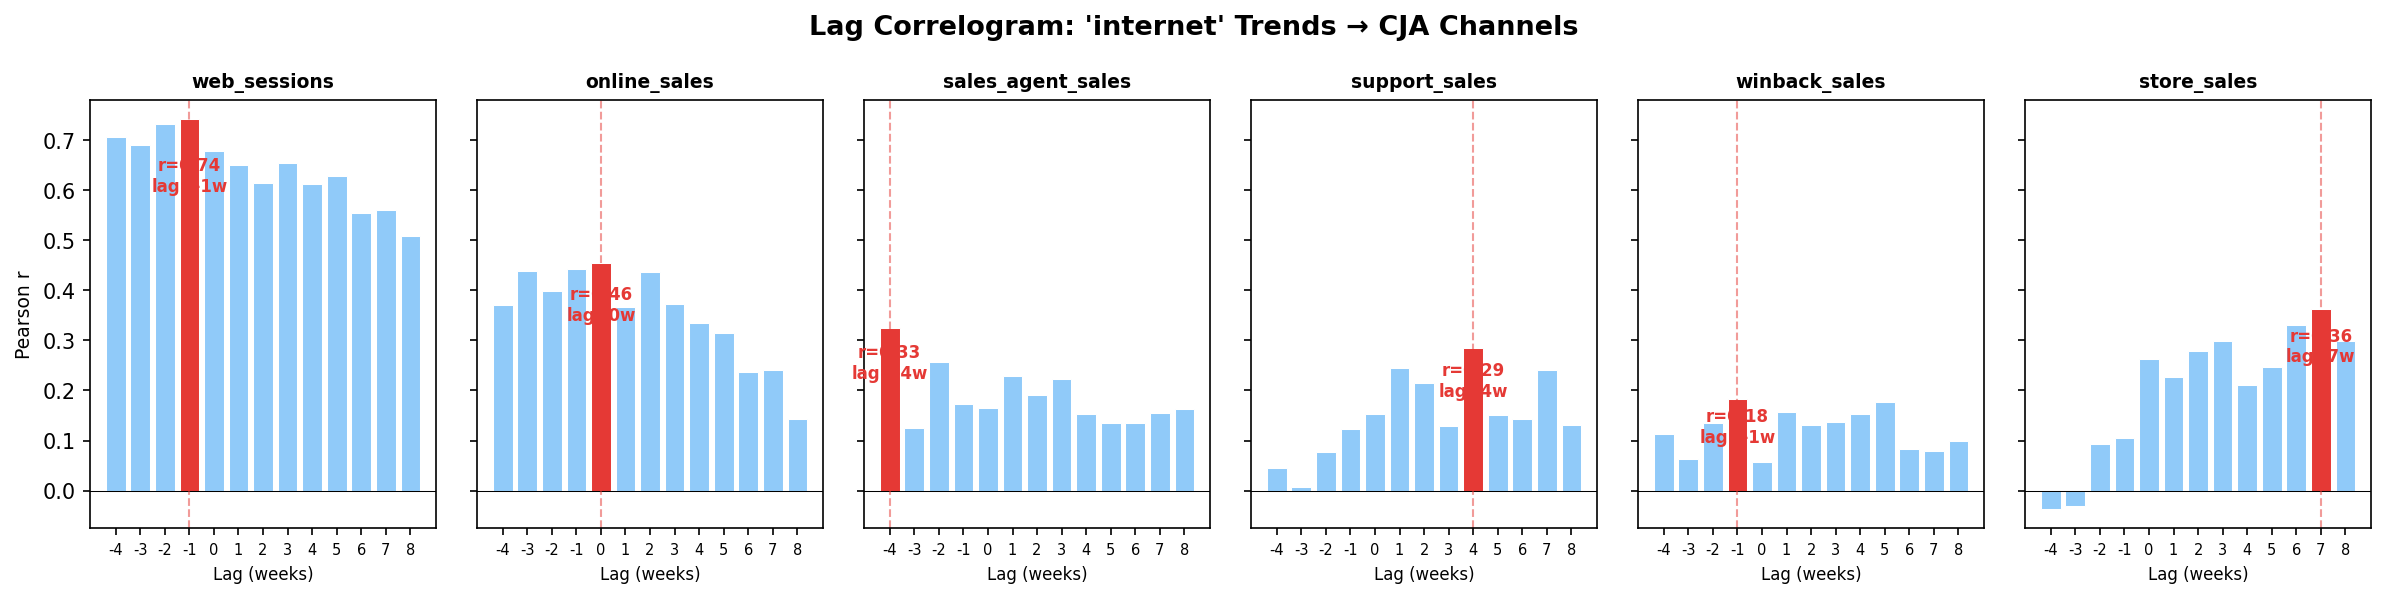
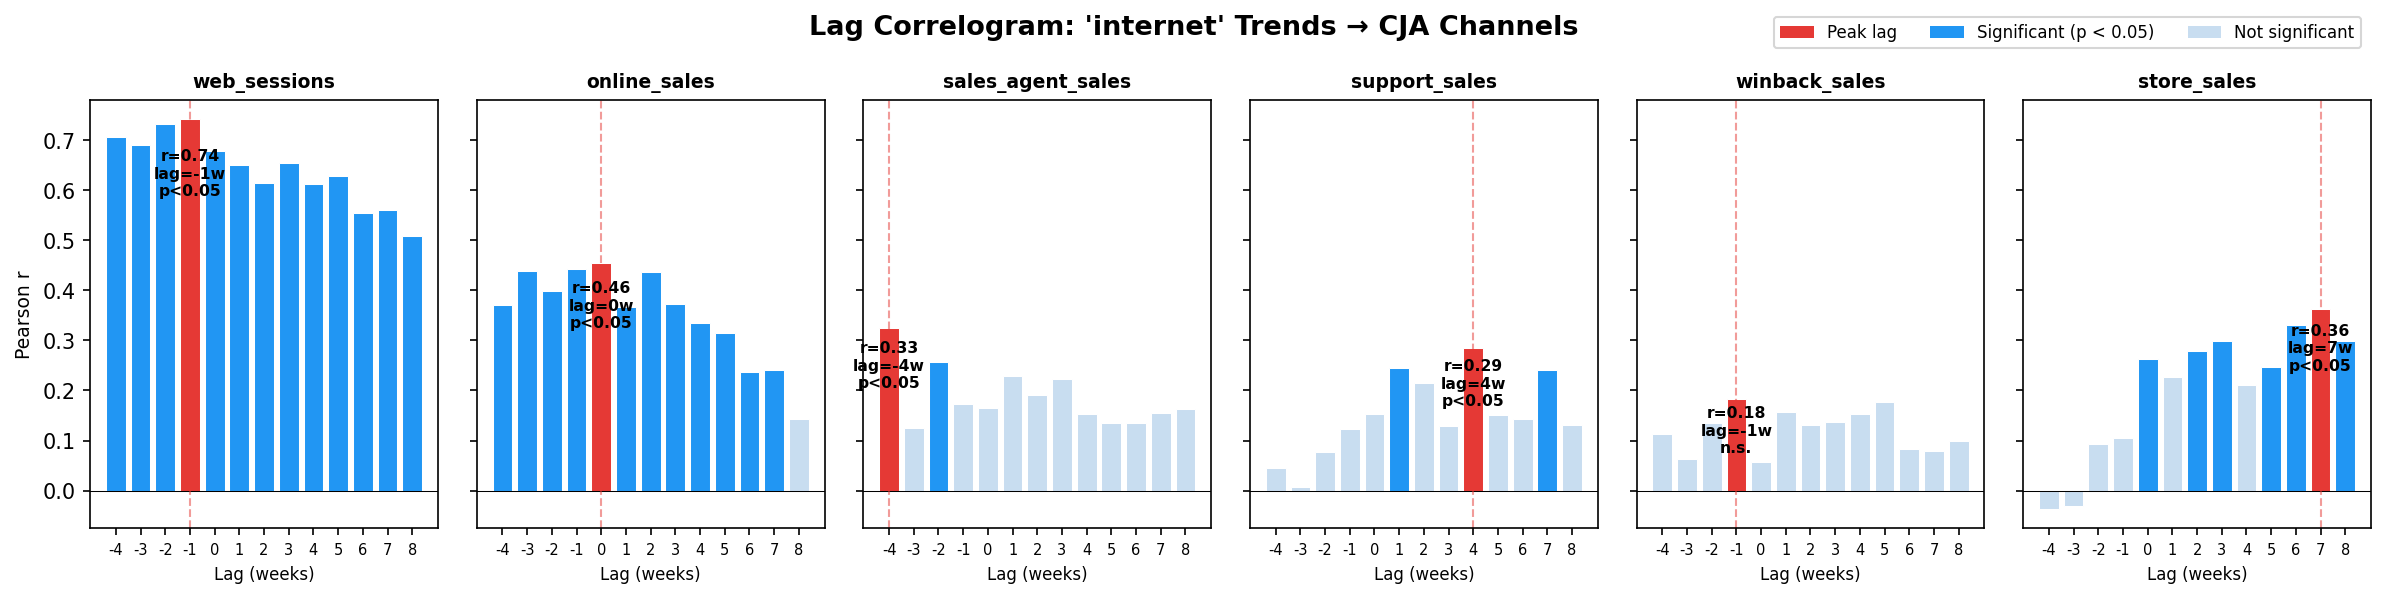
push

diff --git a/_posts/2026-06-21-google-trends-cja-channel-lag.md b/_posts/2026-06-21-google-trends-cja-channel-lag.md
@@ -508,14 +508,16 @@ Reminds me of an A/B tests that I once ran. The traffic / data was very low. But
 
 ### The correlogram: reading the chart
 
-The correlogram plots **r** on the **Y axis** and **lag (weeks)** on the **X axis**. Each bar is one lag value. The red bar is the peak.
+If you scroll further down, you'll see a correlogram that plots **r** on the **Y axis** and **lag (weeks)** on the **X axis**. Each bar is one lag value. The red bar is the peak.
 
-The script gives you one chart per keyword, and from it you read two things. First, how *tall* the peak is. That's the strength (r), and it comes with a p-value telling you whether it's real. This part is a calculated number. Second, how *sharp* the peak is. That's just you looking at the shape to judge whether the lag is pinned to one specific week or smeared across several. This part is a judgment call you make by looking, not a statistic the script calculates for you.
+The script gives you one chart per keyword, and from it you read two things. First, how *tall* the peak is. That's the strength (r), which is what the height of every bar shows. Second, how *sharp* the peak is. That's just you looking at the shape to judge whether the lag is pinned to one specific week or smeared across several. This part is a judgment call you make by looking, not a statistic the script calculates for you.
+
+The p-value (the "can I trust this" number from earlier) is also visible. Furthermore, a solid blue bar is statistically significant (p < 0.05). A faded bar is not. The red peak bar also gets a small label telling you whether it met the p < 0.05 requirement or not (shown as "n.s." for not significant). So the *colour* carries the significance, and the *height* carries the strength. The full p-values for every pairing are also printed in the terminal table when you run the script.
 
 So here's my interpretation:
 
-- **Sharp single peak**: the lead time is precise. The channel follows Trends at one identifiable lag, and I can trust the specific number of weeks. High confidence.
-- **Broad plateau**: there's a relationship, but it's spread across several weeks. so the exact lag is less trustworthy even if r is high.
+- **Sharp single peak**: the lead time is precise. The channel follows Trends at one identifiable lag, and I can trust the specific number of weeks. High confidence if it meets p < 0.05.
+- **Broad plateau**: there's a relationship, but it's spread across several weeks.
 - **Flat across all lags**: no relationship at any lag. This keyword doesn't predict this channel. 
 - **Peak at a negative lag**: the CJA channel is moving *before* the Trends signal. The channel is a leading indicator, not a lagging one.
 
@@ -541,11 +543,11 @@ The channel lag ranking is the business output. One bar per channel, length = we
 
 <img class="datadiaryimage" src="{{ "/assets/images/trends-lag-ranking-iphone.png" | relative_url }}" alt="Channel lag ranking for iphone keyword">
 
-Here's what the `iphone` keyword actually showed with realistic dummy data. Note that a lag value is only meaningful when the correlation is strong enough to act on, a lag of 7 weeks with r = 0.19 is not a finding, it's noise with a number attached to it.
+Here's what the `iphone` keyword actually showed with **dummy data**. Note that a lag value is only meaningful when the correlation is strong enough to act on, a lag of 7 weeks with r = 0.19 is not a finding, it's noise with a number attached to it.
 
 | Channel | Lag | Correlation | Usable? |
 |---|---|---|---|
-| Web sessions | 1 week | r = 0.87 **strong** | ✓ Yes. Clear, consistent signal |
+| Web sessions | 1 week | r = 0.87 **strong** | ✓ Yes. consistent signal |
 | Online sales | 3 weeks | r = 0.50 **moderate** | ✓ Directionally useful maybe, but noisy |
 | Sales agent | 3 weeks | r = 0.39 **weak** | △ Faint signal: worth monitoring, not planning around |
 | Store | 3 weeks | r = 0.20 **weak** | ✗ No: physical visits don't follow search interest in this data |
@@ -579,7 +581,7 @@ Real data will problably be much noisier. Some pairings that look strong with du
 
 ## The CJA angle worth highlighting
 
-What this project demonstrates is that cross-channel CJA data isn't only useful for journey analysis and attribution. It can serve as the input to any time-series comparison, demand forecasting, channel lag modelling, seasonality decomposition, anomaly detection.
+What this project demonstrates is that cross-channel CJA data isn't only useful for journey analysis and attribution within Workspace. It can serve as the input to any time-series comparison, demand forecasting, channel lag modelling, seasonality decomposition, anomaly detection.
 
 The data is already connected. The question is what you do with it.
 